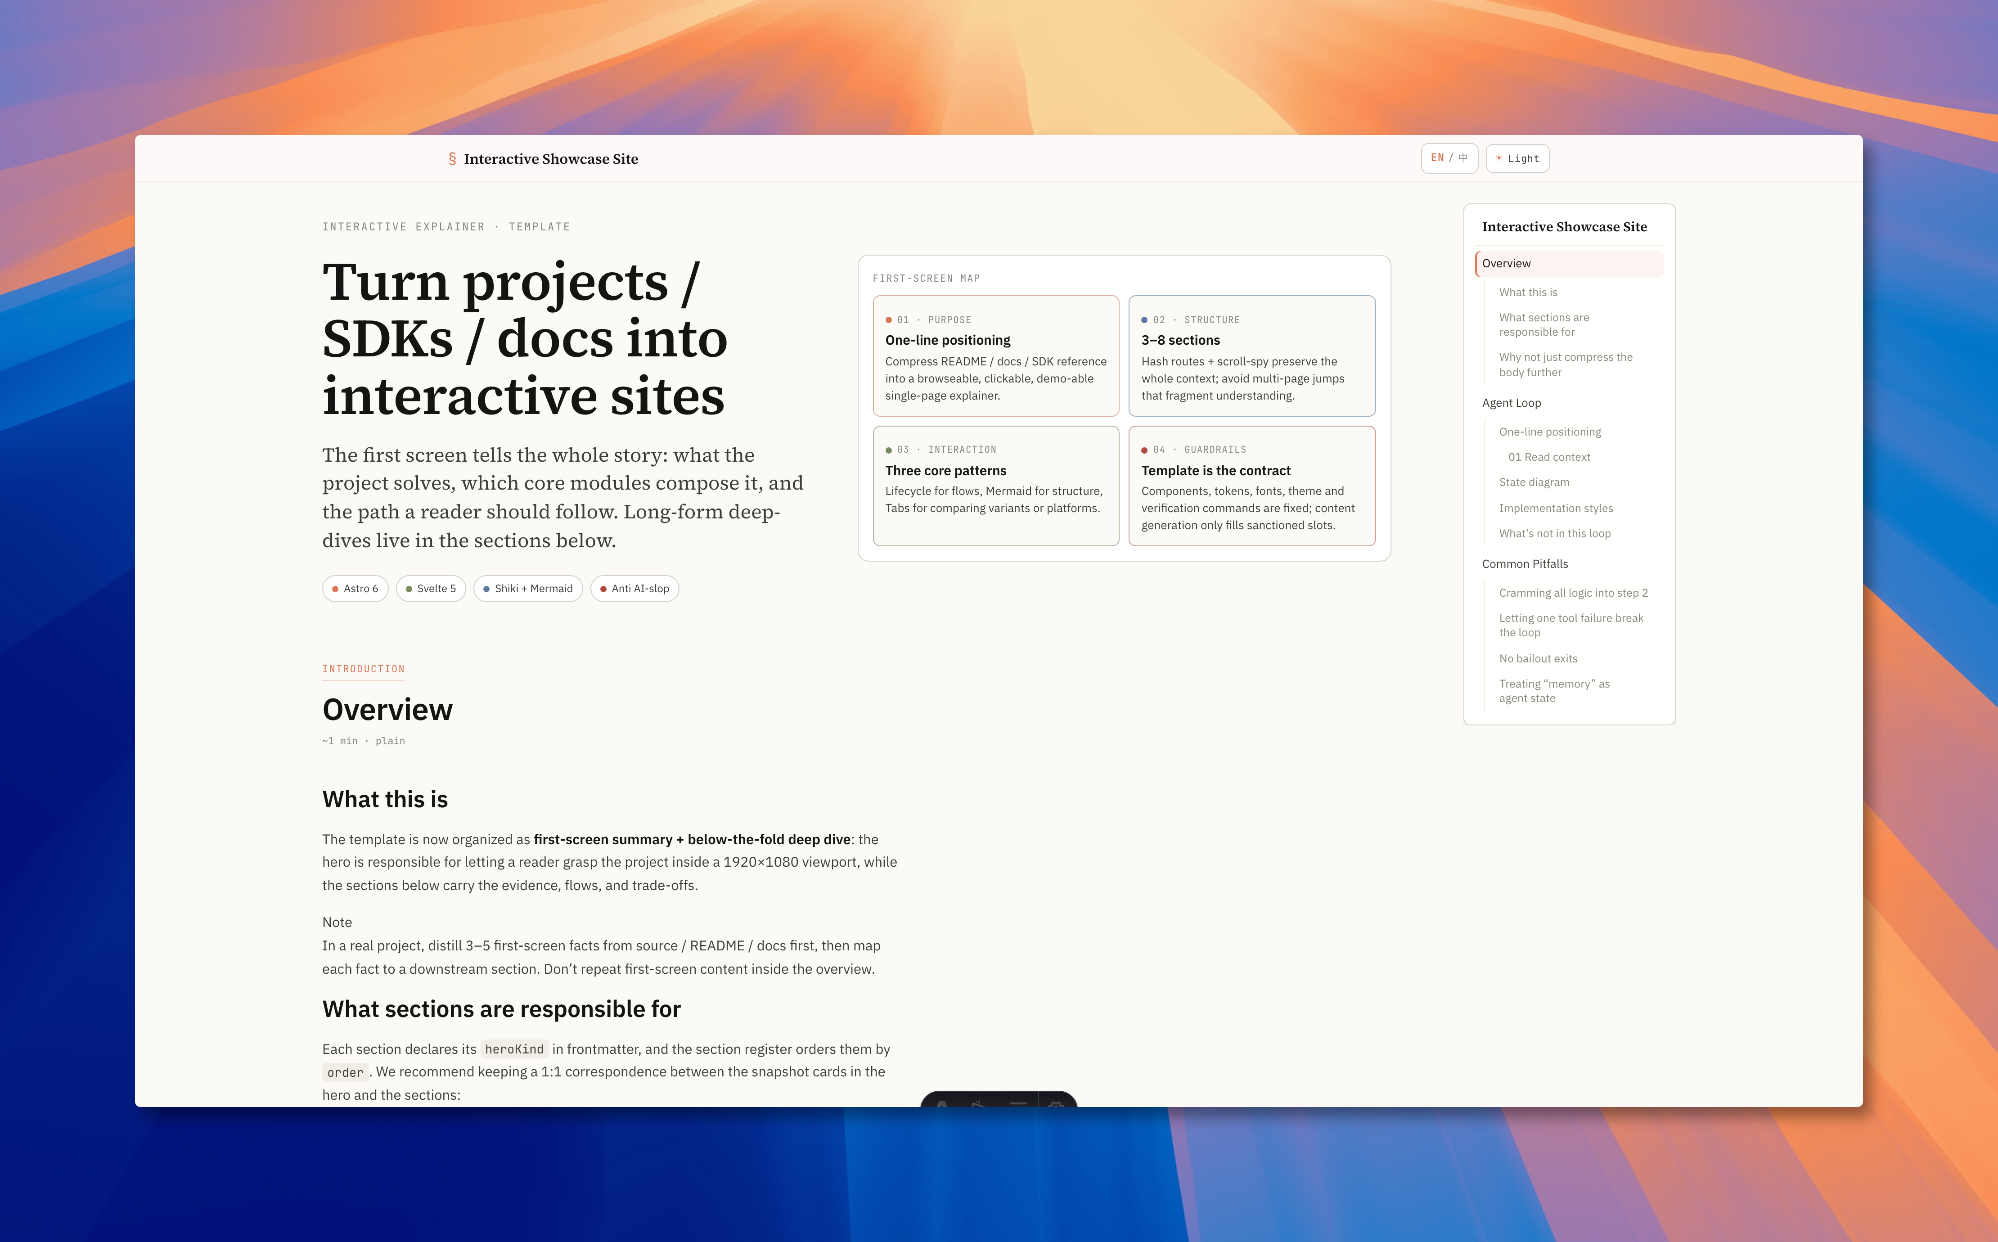
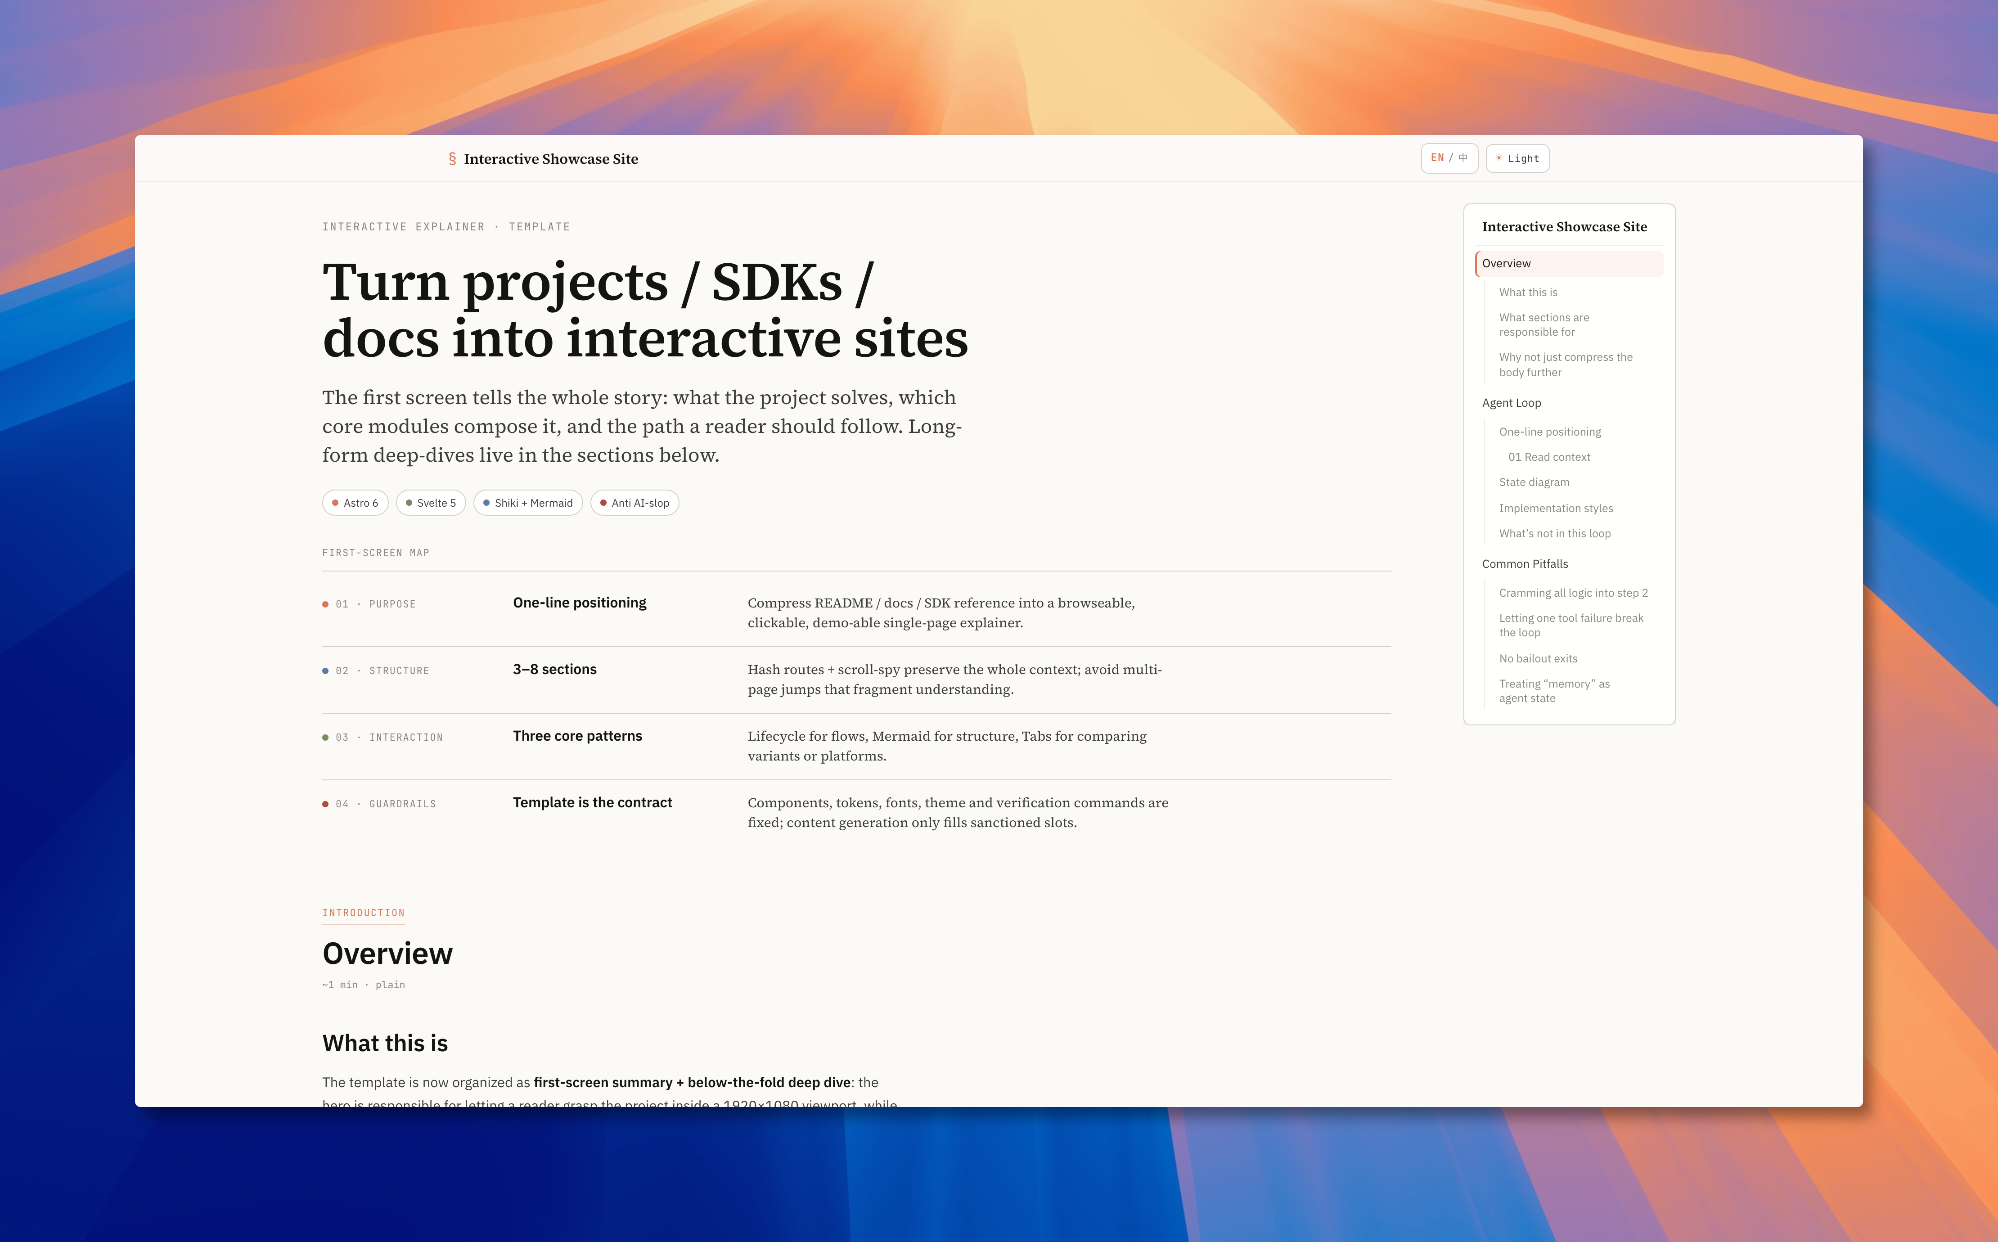
feat: optimize map layout

diff --git a/skills/interactive-showcase-site/template/src/components/Hero.svelte b/skills/interactive-showcase-site/template/src/components/Hero.svelte
@@ -1,11 +1,16 @@
 <script lang="ts">
   /**
-   * Hero — page-level hero (eyebrow + h1 + lead + chips + optional snapshot).
+   * Hero — page-level hero (eyebrow + h1 + lead + chips + optional first-screen map).
    * NOT the per-section hero. The per-section hero is whatever interactive
    * island (Lifecycle / Mermaid / Tabs / plain prose) the section's MDX places
    * at the top of its body.
    *
    * Used once at the top of index.astro to introduce the whole site.
+   *
+   * The optional `summaryItems` render as an editorial first-screen map: a
+   * full-width hairline-separated list under the title block. No panel, no
+   * card grid — typography + 1px gray-300 separators only. Tone is collapsed
+   * to a 7px dot at the start of each row.
    */
   type Tone = 'clay' | 'olive' | 'rust' | 'info' | 'muted';
   type Chip = { label: string; tone?: Tone };
@@ -33,7 +38,7 @@
   }: Props = $props();
 </script>
 
-<header class="page-hero" class:has-summary={summaryItems.length > 0} id="top">
+<header class="page-hero" id="top">
   <div class="hero-copy">
     {#if eyebrow}<div class="eyebrow">{eyebrow}</div>{/if}
     <h1 class="title">{title}</h1>
@@ -51,33 +56,27 @@
   </div>
 
   {#if summaryItems.length}
-    <aside class="summary" aria-label={summaryTitle}>
+    <section class="summary" aria-label={summaryTitle}>
       <div class="summary-title mono">{summaryTitle}</div>
-      <div class="summary-grid">
+      <ol class="map-list">
         {#each summaryItems as item (item.label)}
-          <article class="summary-card" data-tone={item.tone ?? 'muted'}>
-            <div class="summary-label mono">
+          <li class="map-row">
+            <div class="map-num mono">
               <span class="dot" data-tone={item.tone ?? 'muted'}></span>
               {item.label}
             </div>
-            <h2>{item.title}</h2>
-            <p>{item.body}</p>
-          </article>
+            <h2 class="map-title">{item.title}</h2>
+            <p class="map-body">{item.body}</p>
+          </li>
         {/each}
-      </div>
-    </aside>
+      </ol>
+    </section>
   {/if}
 </header>
 
 <style>
   .page-hero {
     padding: var(--hero-pad-y) 0 28px;
-  }
-  .page-hero.has-summary {
-    display: grid;
-    grid-template-columns: minmax(0, 0.95fr) minmax(420px, 1.05fr);
-    gap: clamp(28px, 4vw, 58px);
-    align-items: center;
   }
   .hero-copy {
     min-width: 0;
@@ -136,77 +135,86 @@
     height: 7px;
     border-radius: 50%;
     background: var(--gray-500);
+    flex-shrink: 0;
   }
   .dot[data-tone='clay']  { background: var(--clay); }
   .dot[data-tone='olive'] { background: var(--olive); }
   .dot[data-tone='rust']  { background: var(--rust); }
   .dot[data-tone='info']  { background: var(--info); }
 
+  /* First-screen map — editorial, no panel, no cards.
+     Sits below the title block as part of the same vertical flow.
+     Tone signal collapsed to the 7px dot at the start of each row. */
   .summary {
-    background: var(--paper);
-    border: var(--border);
-    border-radius: var(--radius-panel);
-    padding: 16px;
+    margin-top: 32px;
   }
   .summary-title {
     color: var(--gray-500);
     font-size: 11px;
     letter-spacing: 0.08em;
-    margin-bottom: 10px;
+    text-transform: uppercase;
+    margin: 0 0 10px;
+    padding-bottom: 10px;
+    border-bottom: 1px solid var(--gray-300);
   }
-  .summary-grid {
+  .map-list {
+    list-style: none;
+    margin: 0;
+    padding: 0;
+  }
+  .map-row {
     display: grid;
-    grid-template-columns: repeat(2, minmax(0, 1fr));
-    gap: 10px;
+    grid-template-columns: minmax(180px, 0.22fr) minmax(0, 0.32fr) minmax(0, 1fr);
+    gap: clamp(16px, 2vw, 32px);
+    align-items: baseline;
+    padding: 14px 0;
+    border-bottom: 1px solid var(--gray-300);
   }
-  .summary-card {
-    min-width: 0;
-    padding: 12px 13px;
-    border: 1.5px solid var(--gray-300);
-    border-radius: var(--radius-row);
-    background: var(--ivory);
+  .map-row:last-child {
+    border-bottom: 0;
   }
-  .summary-card[data-tone='clay']  { border-color: color-mix(in oklch, var(--clay) 38%, var(--gray-300)); }
-  .summary-card[data-tone='olive'] { border-color: color-mix(in oklch, var(--olive) 38%, var(--gray-300)); }
-  .summary-card[data-tone='rust']  { border-color: color-mix(in oklch, var(--rust) 38%, var(--gray-300)); }
-  .summary-card[data-tone='info']  { border-color: color-mix(in oklch, var(--info) 38%, var(--gray-300)); }
-  .summary-label {
+  .map-num {
     display: inline-flex;
     align-items: center;
-    gap: 6px;
-    max-width: 100%;
+    gap: 8px;
     color: var(--gray-500);
-    font-size: 10.5px;
-    letter-spacing: 0.06em;
+    font-size: 11px;
+    letter-spacing: 0.08em;
     text-transform: uppercase;
-    margin-bottom: 5px;
     overflow-wrap: anywhere;
   }
-  .summary-card h2 {
+  .map-title {
     font-family: var(--sans);
-    font-size: 15px;
-    line-height: 1.25;
-    margin: 0 0 5px;
+    font-size: 16px;
+    line-height: 1.3;
     color: var(--slate);
-  }
-  .summary-card p {
-    max-width: none;
     margin: 0;
-    font-size: 13px;
-    line-height: 1.45;
+    font-weight: 600;
+  }
+  .map-body {
+    font-family: var(--serif);
+    font-size: 15px;
+    line-height: 1.5;
     color: var(--gray-700);
+    margin: 0;
+    max-width: 60ch;
     overflow-wrap: anywhere;
   }
 
-  /* Below 1440px the side-by-side hero crowds the fixed right-side TOC;
-     stack the summary below the copy so each side has room to breathe.
-     The 1920×1080 spec target still gets the dual-pane layout. */
-  @media (max-width: 1440px) {
-    .page-hero.has-summary {
+  /* Below 900px the three-column row crowds; stack each row vertically
+     while keeping the hairline separator language intact. No cards. */
+  @media (max-width: 900px) {
+    .map-row {
       display: block;
     }
-    .summary {
-      margin-top: 24px;
+    .map-num {
+      margin-bottom: 6px;
+    }
+    .map-title {
+      margin-bottom: 4px;
+    }
+    .map-body {
+      max-width: none;
     }
   }
 
@@ -215,9 +223,6 @@
     .lead {
       overflow-wrap: anywhere;
       word-break: normal;
-    }
-    .summary-grid {
-      grid-template-columns: 1fr;
     }
   }
 </style>

diff --git a/skills/interactive-showcase-site/SKILL.md b/skills/interactive-showcase-site/SKILL.md
@@ -57,11 +57,14 @@ Do **not** use this skill for:
    below). No inline `<script>`. No new global components without explicitly
    widening the template (which is a skill-level change, not a per-project change).
 5. **First screen explains the project.** At 1920×1080, the sticky top controls
-   + fixed right-side TOC + page hero + 3–5 project snapshot cards + the start
-   of the first section must fit without scrolling. The snapshot cards should
-   cover what the project is, its core modules / workflow, and why the reader
-   should continue. Pages must still degrade gracefully at smaller viewports
-   (1280×800 / mobile), but 1920×1080 is the spec target.
+   + fixed right-side TOC + page hero + 3–5 first-screen map entries + the
+   start of the first section must fit without scrolling. The map entries
+   should cover what the project is, its core modules / workflow, and why the
+   reader should continue. They render as a full-width editorial list under
+   the title (hairline-separated rows, no panel, no cards) — never as a
+   side-by-side card grid next to the title. Pages must still degrade
+   gracefully at smaller viewports (1280×800 / mobile), but 1920×1080 is the
+   spec target.
 6. **Reduced motion + dark mode + print are not optional.** All animations
    must wrap in `@media (prefers-reduced-motion: no-preference)`; theme-flip
    re-renders Mermaid; print hides nav / theme toggle / copy buttons.
@@ -108,7 +111,7 @@ skills/
             │   ├── strings.ts          ← UI string dict (en + zh)
             │   └── lang.svelte.ts      ← reactive lang store + setLang()
             ├── components/
-            │   ├── Hero.svelte         ← page-level hero + project snapshot cards
+            │   ├── Hero.svelte         ← page-level hero + first-screen map list
             │   ├── SectionNav.svelte   ← top controls + right TOC scroll-spy
             │   ├── ThemeToggle.svelte  ← system / light / dark cycle
             │   ├── LangToggle.svelte   ← EN / 中 cycle (mirrors ThemeToggle)
@@ -187,8 +190,9 @@ When triggered:
    | 04 · guardrails | 使用约束 | 最容易误用或必须遵守的规则 | rust |
 
    Return this table before the section outline so the user can verify the
-   first-screen story. The facts should be short enough to fit inside the
-   `Hero` snapshot cards; do not use them as another long introduction.
+   first-screen story. Each fact should be short enough to fit as a one-line
+   entry in the first-screen map (a single `body` line under a 3–5 word
+   `title`); do not use them as another long introduction.
 
 4. **Draft a section outline (≤8 entries) and get user approval.** Use this
    shape and return it as a markdown table for the user to review:
@@ -494,9 +498,10 @@ Run `pnpm typecheck && pnpm build` first — both must exit 0. Then walk
 through this list in the dev preview (~3 minutes):
 
 - [ ] At 1920×1080, the sticky top controls, fixed right-side TOC, page hero,
-      3–5 snapshot cards, and the start of the first section fit without
-      scrolling — verify in **both EN and ZH**. (Spec target; smaller
-      viewports just need to degrade gracefully.)
+      3–5 first-screen map rows (full-width hairline list — never a side-by-
+      side card grid next to the title), and the start of the first section
+      fit without scrolling — verify in **both EN and ZH**. (Spec target;
+      smaller viewports just need to degrade gracefully.)
 - [ ] Toggle the theme button through system / light / dark; code blocks
       visibly **darken** in dark mode (and lighten to paper-tan in light
       mode); Shiki tokens never paint white "stickers" on top of the slab;
